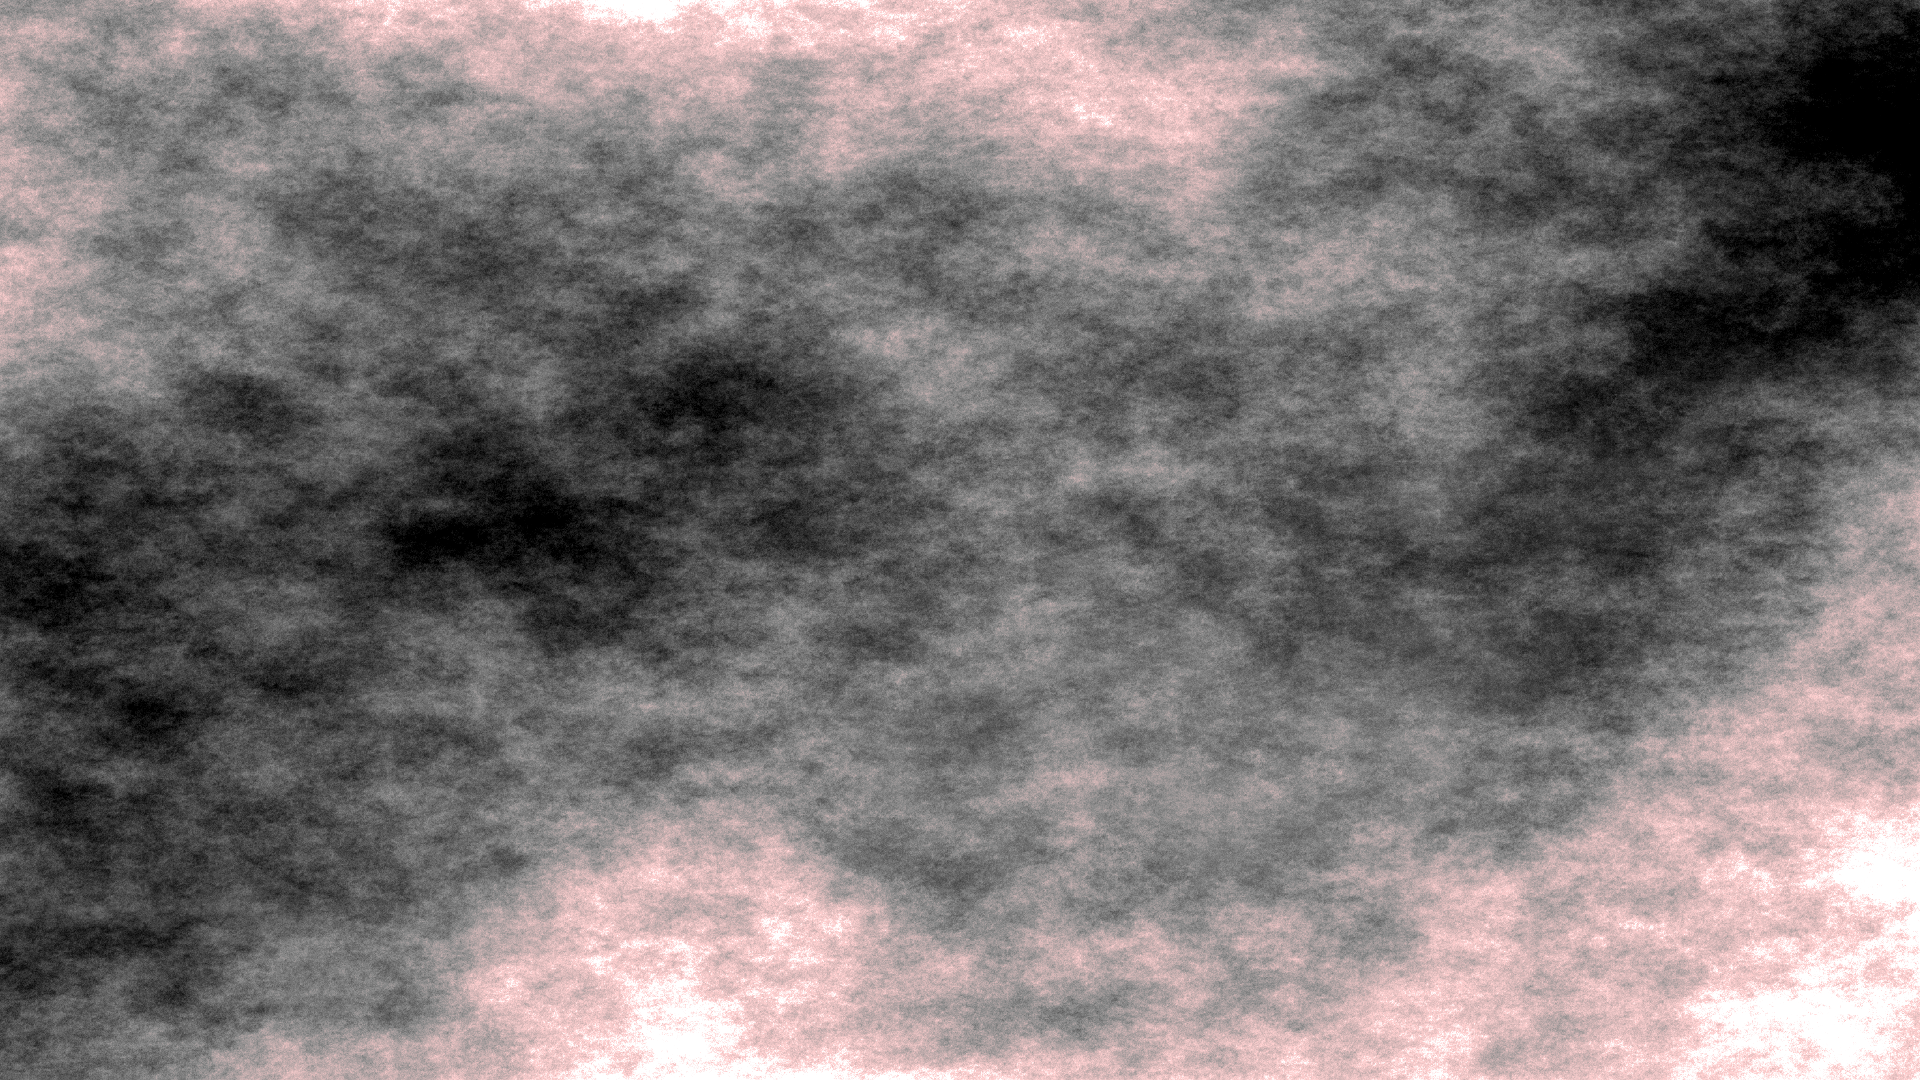
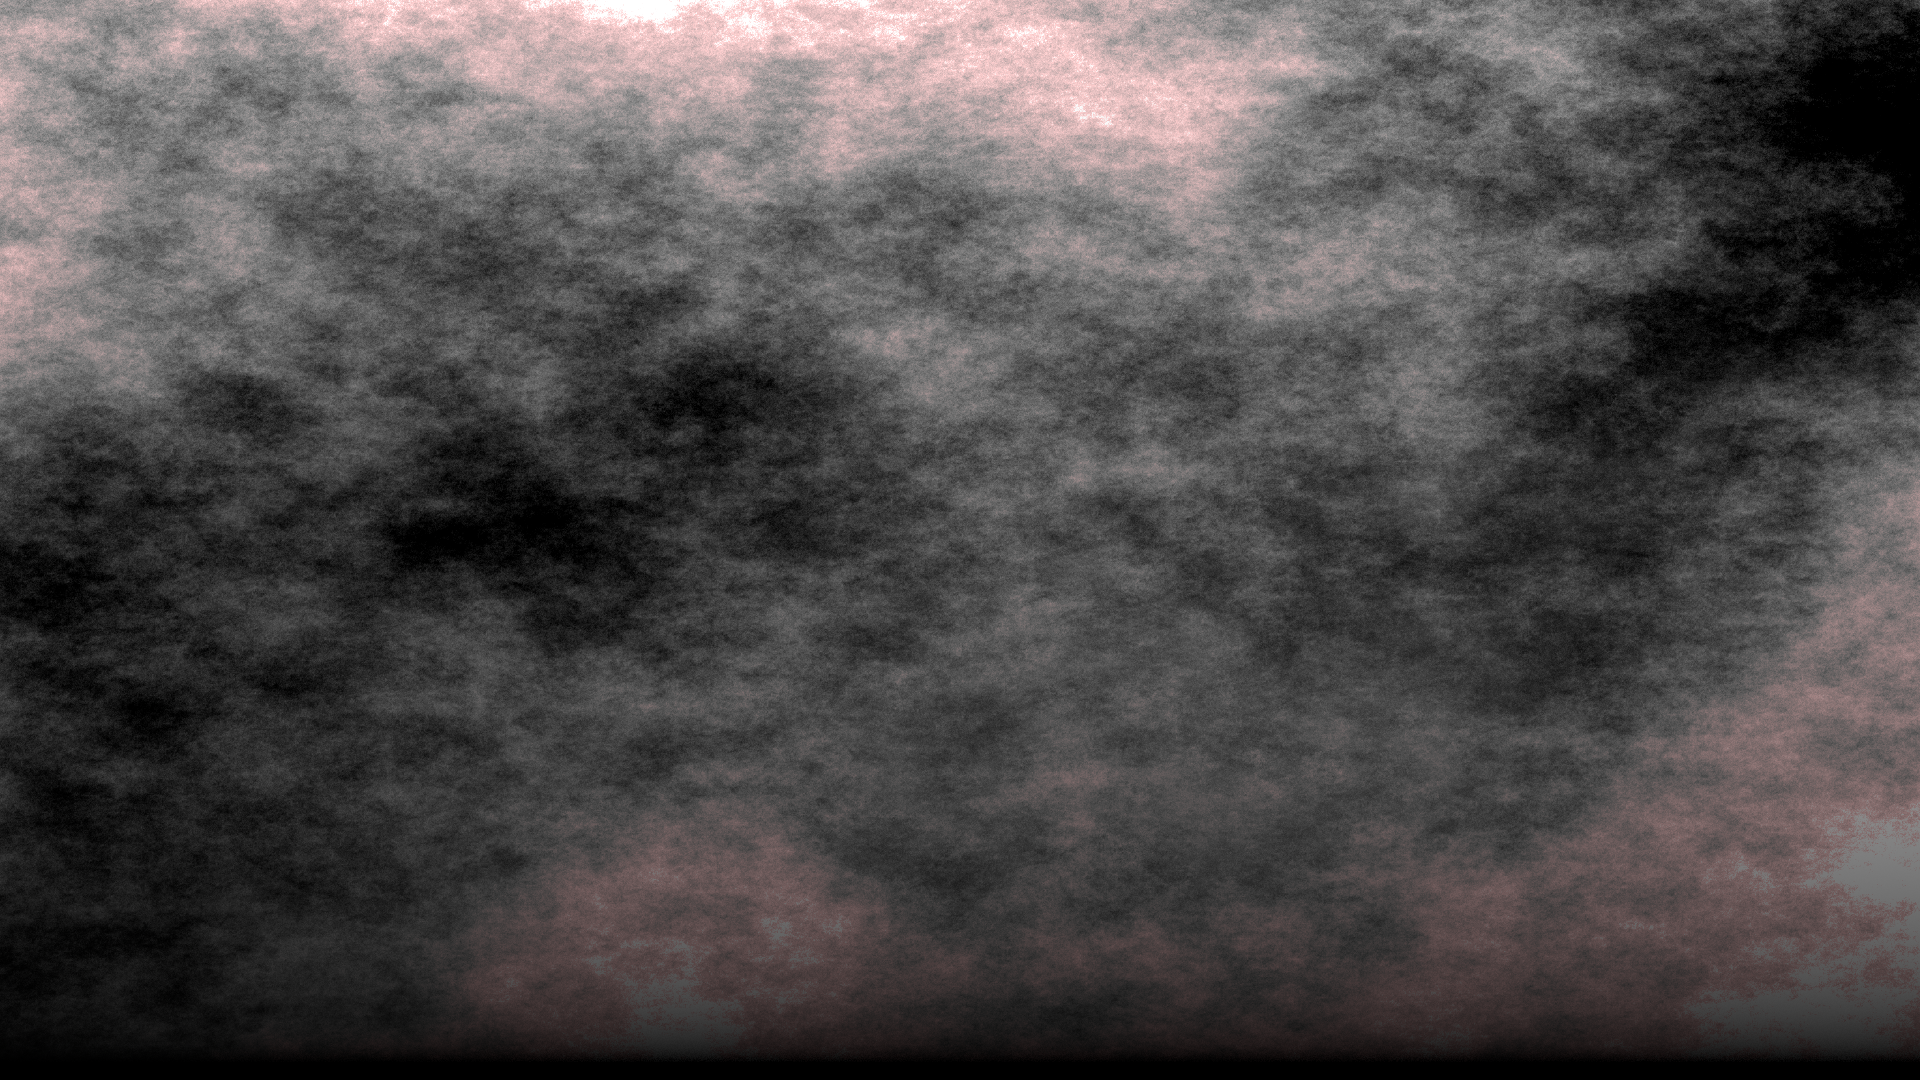
Started adding styles to the search view

diff --git a/public/css/style.css b/public/css/style.css
@@ -33,6 +33,23 @@
 .modal-form-input{
   width:100%;
 }
+
+.user-info{
+  background-color: rgba(7, 7, 7, 0.774);
+  margin-left: 10%;
+  margin-right: 10%;
+}
+.user-info i{
+  font-size: 1.3em;
+}
+.user-info b{
+  color: rgb(255, 0, 0);
+  text-shadow: 2px 2px 5px rgb(0, 0, 0);
+}
+
+.user-info hr{
+  color: whitesmoke;
+}
 /* End custom stuff*/
 
 /* Base */

diff --git a/public/css/profile.css b/public/css/profile.css
@@ -6,6 +6,8 @@ body{
 #background-image{
     background-image: url(/images/background.png);
     position: relative;
+    background-repeat: no-repeat;
+    background-color: black;
 }
 
 .account-settings .user-profile {

diff --git a/resources/views/finder.blade.php b/resources/views/finder.blade.php
@@ -1,0 +1,76 @@
+<!DOCTYPE html>
+<html lang="{{ str_replace('_', '-', app()->getLocale()) }}">
+
+    <head>
+        <title>MusicPit</title>
+        <link rel="shortcut icon" href="{{URL::asset('images/logo-transparent.png')}}"/>
+
+        <meta charset="utf-8">
+        <meta name="viewport" content="width=device-width, initial-scale=1, shrink-to-fit=no">
+
+        <!-- Fonts -->
+        <link href="{{ URL::asset('https://fonts.googleapis.com/css?family=Muli:300,400,700,900') }}" rel="stylesheet">
+        <link rel="stylesheet" href="{{ URL::asset('/fonts/icomoon/style.css') }}">
+        <link rel="stylesheet" href="{{ URL::asset('/fonts/flaticon/font/flaticon.css') }}">
+        <!-- Styles -->
+        <link rel="stylesheet" href="{{ URL::asset('/css/bootstrap.min.css') }}">
+        <link rel="stylesheet" href="{{ URL::asset('/css/style.css') }}">
+        <link rel="stylesheet" href="{{ URL::asset('https://cdnjs.cloudflare.com/ajax/libs/font-awesome/4.7.0/css/font-awesome.min.css') }}">
+        <link rel="stylesheet" href="{{ URL::asset('/css/profile.css') }}">
+
+    </head>
+    <body id="background-image">
+        <!-- NAVBAR -->
+        <nav class="navbar navbar-expand-lg navbar-dark bg-dark m-2 p-2">
+            <button class="navbar-toggler" type="button" data-toggle="collapse" data-target="#navbarSupportedContent" aria-controls="navbarSupportedContent" aria-expanded="false" aria-label="Toggle navigation">
+                <span class="navbar-toggler-icon"></span>
+            </button>
+
+            <div class="collapse navbar-collapse" id="navbarSupportedContent">
+                    <div class="site-logo w-20">
+                        <a>
+                            <img src="{{URL::asset('images/logo-transparent-invcolors.png')}}" width="100" height="60" class="d-inline-block align-top" alt="MusicPit">
+                        </a>
+                    </div>
+                <ul class="navbar-nav">
+                <li class="nav-item active">
+                    <a class="nav-link" href="{{ route('welcome') }}">Home <span class="sr-only">(current)</span></a>
+                </li>
+                <li class="nav-item">
+                    <a class="nav-link" href="#">Search Users</a>
+                </li>
+                <li class="nav-item dropdown">
+                    <a class="nav-link dropdown-toggle" href="#" id="navbarDropdown" role="button" data-toggle="dropdown" aria-haspopup="true" aria-expanded="false">
+                    Filter by:
+                    </a>
+                    <div class="dropdown-menu" aria-labelledby="navbarDropdown">
+                        <a class="dropdown-item" href="#">Instrument</a>
+                        <a class="dropdown-item" href="#">Music genre</a>
+                        <div class="dropdown-divider"></div>
+                        <a class="dropdown-item" href="#">Localization</a>
+                    </div>
+                </li>
+                </ul>
+                <form class="form-inline my-2 my-lg-0">
+                <input class="form-control mr-sm-2" type="search" placeholder="Search" aria-label="Search">
+                <button class="btn btn-outline-success my-2 my-sm-0" type="submit">Search</button>
+                </form>
+            </div>
+        </nav>
+            <!-- END NAVBAR -->
+
+            <!-- CONTENT -->
+            <div>
+                @foreach($users as $user)
+                <div class="user-info">
+                    <b>Nombre:</b><i>{{$user->name}}</i>
+                    <hr>
+                    <b>Instrumento:</b><i>{{$user->instrument}}</i>
+                    <hr>
+                    <b>Musica:</b><i>{{$user->music_genre}}</i>
+                    <p></p>
+                </div>
+                @endforeach
+            </div>
+    </body>
+</html>

diff --git a/routes/web.php b/routes/web.php
@@ -39,3 +39,10 @@ Route::middleware(['auth:sanctum', 'verified'])->get('/dashboard', function () {
 Route::get('/admin/profile', function () {
     return view('admin');
 })->name('admin');
+
+Route::get('/find/users', function(){
+    $users = \App\Models\User::all();
+    return view('finder', ['users'=>$users]);
+})->name('finder');
+
+// END TEST
